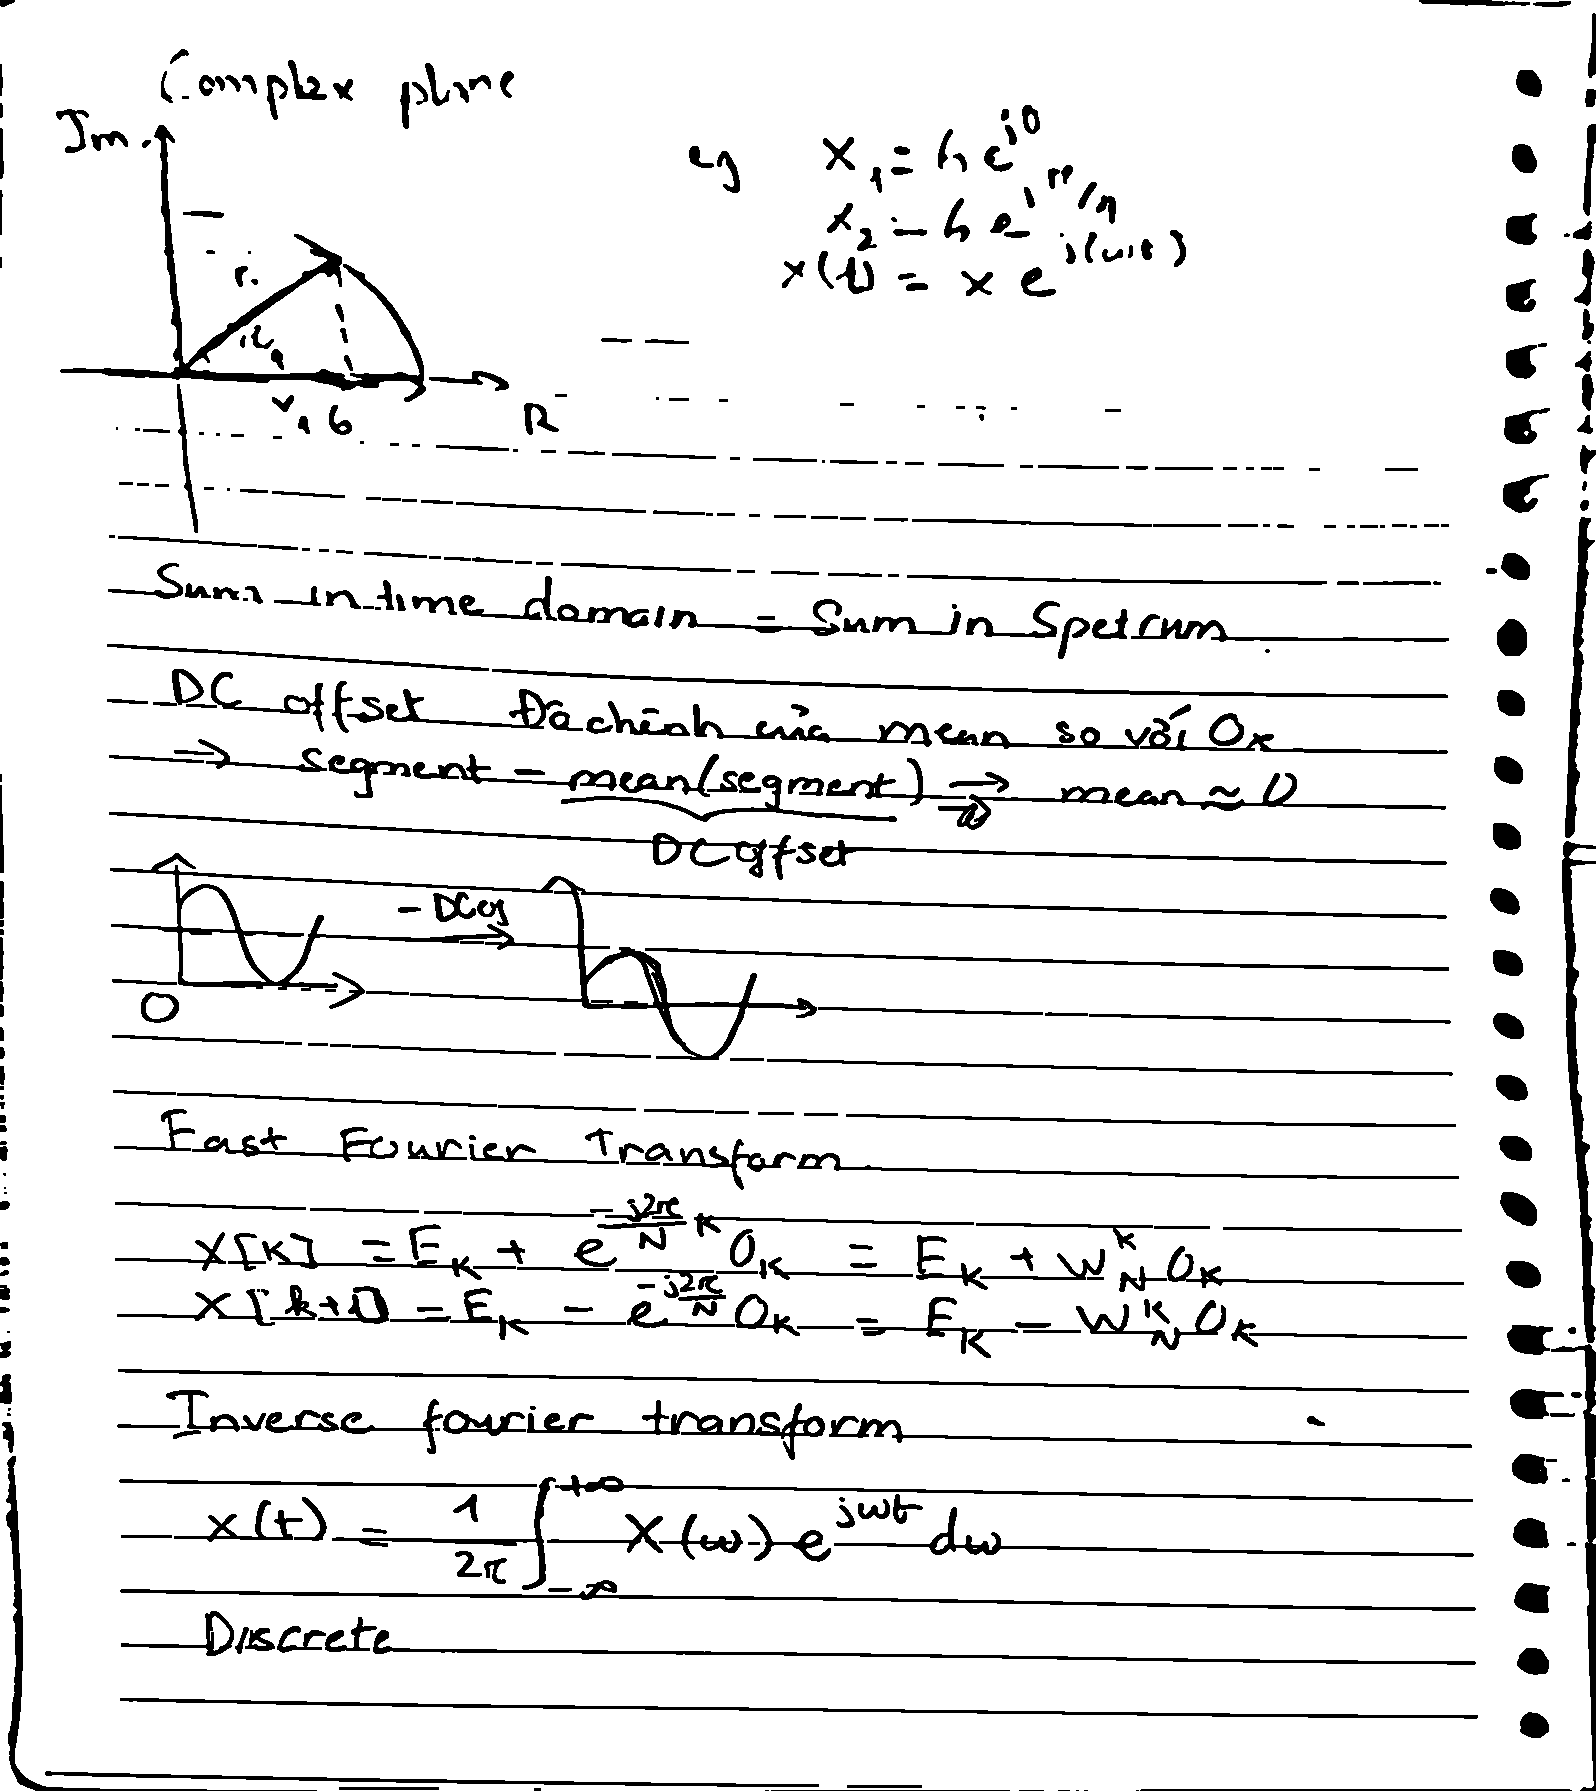
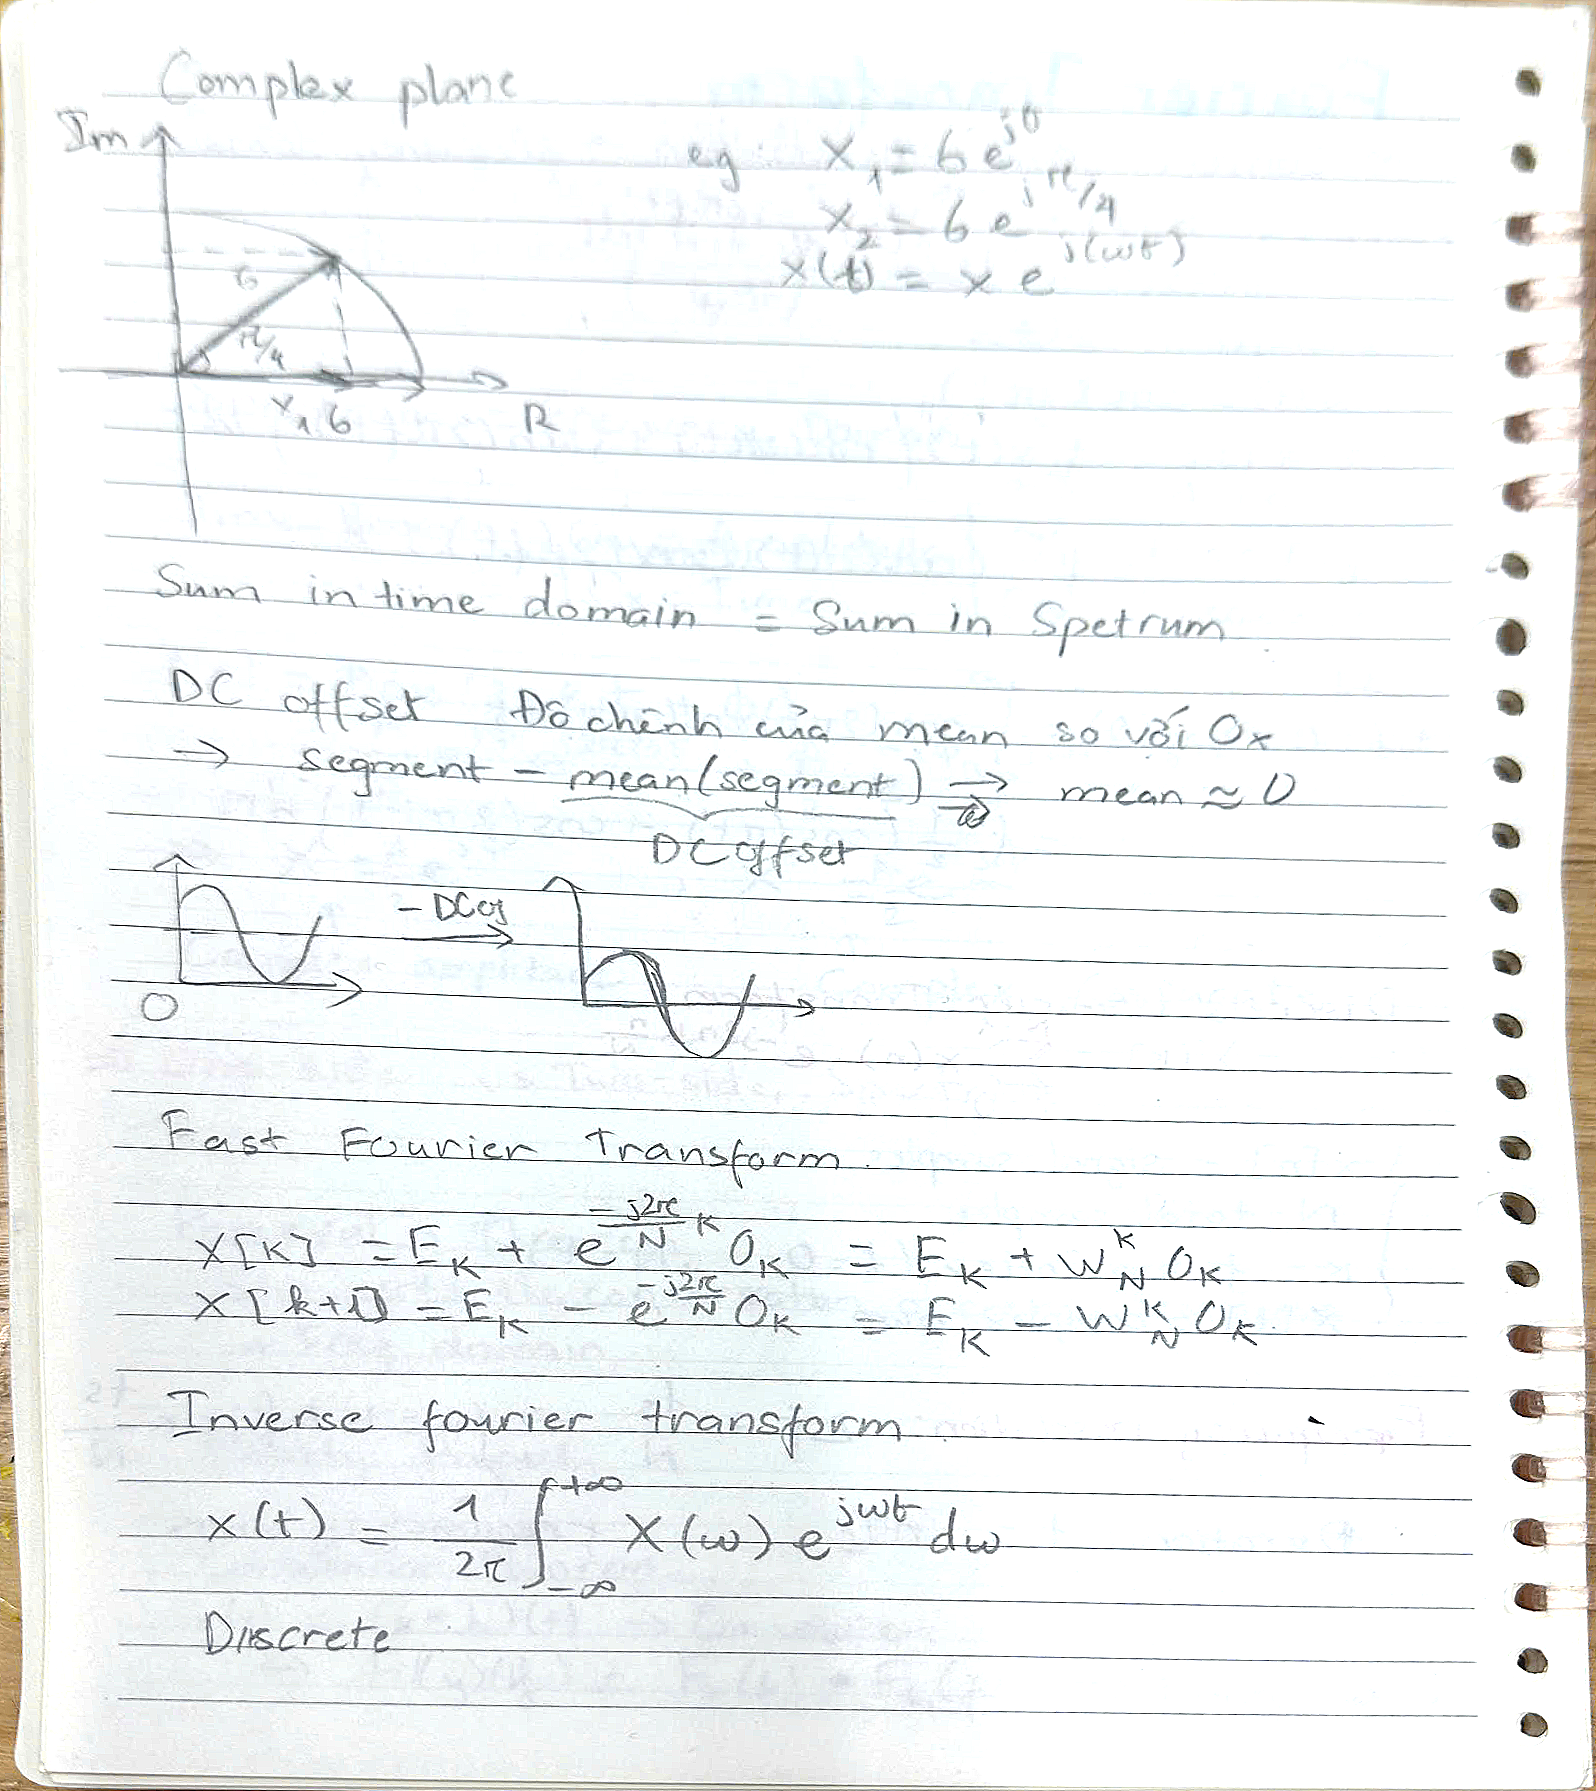
done

diff --git a/process_cv.py b/process_cv.py
@@ -4,14 +4,14 @@ import time
 
 class ImageProcessor:
     def __init__(self):
-        # Biến dùng cho tính năng Auto-Scan (Theo dõi chuyển động)
+        # Variables used for the Auto-Scan feature (Motion tracking)
         self.prev_corners = None
         self.stable_counter = 0
-        self.STABLE_THRESHOLD = 20  # Sai số pixel cho phép khi tay rung nhẹ
-        self.FRAMES_TO_LOCK = 3     # Số frame đứng im liên tiếp để chốt chụp
+        self.STABLE_THRESHOLD = 20  # Allowed pixel tolerance for slight hand shaking
+        self.FRAMES_TO_LOCK = 3     # Number of consecutive stable frames to lock the capture
 
     def order_points(self, pts):
-        """ Sắp xếp 4 điểm theo thứ tự: Trái-Trên, Phải-Trên, Phải-Dưới, Trái-Dưới """
+        """ Order 4 points in the sequence: Top-Left, Top-Right, Bottom-Right, Bottom-Left """
         rect = np.zeros((4, 2), dtype="float32")
         s = pts.sum(axis=1)
         rect[0] = pts[np.argmin(s)]
@@ -27,31 +27,31 @@ class ImageProcessor:
         results = {
             "status": "success", 
             "message": "Processed successfully",
-            "is_stable": False  # Cờ báo cho giao diện web tự động chụp
+            "is_stable": False  # Flag to signal the web interface to auto-capture
         }
         orig = frame.copy()
         
         # =========================================================
-        # GIAI ĐOẠN 1: TẨY CHỮ (MAGIC ERASER) & TÌM VIỀN THÔNG MINH
+        # STAGE 1: TEXT REMOVAL (MAGIC ERASER) & SMART EDGE DETECTION
         # =========================================================
         gray = cv2.cvtColor(frame, cv2.COLOR_BGR2GRAY)
         
-        # 1. Morphological Close (Kernel lớn): "Nuốt chửng" toàn bộ chữ viết đen 
-        # và dòng kẻ ngang, biến tờ giấy thành một khối trắng tinh mờ ảo.
+        # 1. Morphological Close (Large Kernel): "Swallows" all black text 
+        # and horizontal lines, turning the paper into a blurry white block.
         kernel_eraser = cv2.getStructuringElement(cv2.MORPH_RECT, (15, 15))
         blank_paper = cv2.morphologyEx(gray, cv2.MORPH_CLOSE, kernel_eraser)
 
-        # 2. Làm mờ nhẹ để xóa nhiễu vân gỗ mặt bàn
+        # 2. Slight blur to remove wood grain noise from the table
         blurred = cv2.GaussianBlur(blank_paper, (5, 5), 0)
 
-       # 3. THEO ĐÚNG Ý TƯỞNG CỦA BẠN: ÉP THRESHOLD XUỐNG CỰC THẤP
-        # Bỏ Auto-Canny, fix cứng ngưỡng (20, 60) để Canny nhạy cảm hơn, 
-        # bắt được cả những ranh giới lờ mờ nhất giữa giấy trắng và bàn gỗ.
+        # 3. AS PER YOUR IDEA: FORCE THRESHOLD EXTREMELY LOW
+        # Discard Auto-Canny, hardcode threshold to (20, 60) to make Canny more sensitive, 
+        # capturing even the faintest boundaries between white paper and wooden table.
         edged = cv2.Canny(blurred, 20, 60)
 
-        # 4. "Đổ bê tông" hàn gắn các khoảng trống khổng lồ
-        # Ảnh của bạn nét đứt rất xa, nên ta kết hợp cả MORPH_CLOSE và DILATE 
-        # với kernel to (11x11) để ép các đường thẳng đứt quãng nối lại với nhau.
+        # 4. "Pour concrete" to bridge giant gaps
+        # Your image has widely disconnected lines, so we combine MORPH_CLOSE and DILATE 
+        # with a large kernel (11x11) to force broken lines to connect together.
         kernel_bridge = cv2.getStructuringElement(cv2.MORPH_RECT, (11, 11))
         edged = cv2.morphologyEx(edged, cv2.MORPH_CLOSE, kernel_bridge)
         edged = cv2.dilate(edged, kernel_bridge, iterations=1)
@@ -61,7 +61,7 @@ class ImageProcessor:
             return cv2.cvtColor(edged, cv2.COLOR_GRAY2BGR), results, process_time_ms
 
         # =========================================================
-        # GIAI ĐOẠN 2: TÌM CONTOURS & VƯỢT QUA GÁY LÒ XO
+        # STAGE 2: FIND CONTOURS & OVERCOME SPIRAL BINDING
         # =========================================================
         contours, _ = cv2.findContours(edged.copy(), cv2.RETR_EXTERNAL, cv2.CHAIN_APPROX_SIMPLE)
         contours = sorted(contours, key=cv2.contourArea, reverse=True)[:5]
@@ -70,20 +70,20 @@ class ImageProcessor:
         doc_cnt = None
 
         for c in contours:
-            # Bỏ qua các contour rác có diện tích quá nhỏ
+            # Ignore noise contours with an area that is too small
             if cv2.contourArea(c) < 0.05 * image_area:
                 continue
 
-            # Bao lồi (Convex Hull): Bọc màng nilon phẳng qua gáy lò xo nhấp nhô
+            # Convex Hull: Wrap a flat "plastic wrap" over the bumpy spiral binding
             hull = cv2.convexHull(c)
             peri = cv2.arcLength(hull, True)
             
-            # Thử nghiệm các mức nới lỏng để ép hình dạng về 4 đỉnh
+            # Experiment with loosening levels to force the shape into 4 vertices
             for eps in [0.02, 0.03, 0.04, 0.05, 0.06]:
                 approx = cv2.approxPolyDP(hull, eps * peri, True)
                 
                 if len(approx) == 4:
-                    # Đảm bảo tứ giác là hình lồi (loại bỏ lỗi móp méo do bóng đèn)
+                    # Ensure the quadrilateral is convex (remove distortion errors caused by lighting)
                     if cv2.isContourConvex(approx):
                         doc_cnt = approx
                         break 
@@ -92,15 +92,15 @@ class ImageProcessor:
                 break
 
         # =========================================================
-        # LOGIC THEO DÕI CHUYỂN ĐỘNG (AUTO-CAPTURE)
+        # MOTION TRACKING LOGIC (AUTO-CAPTURE)
         # =========================================================
-        box_color = (0, 0, 255) # Mặc định viền màu Đỏ (Đang dịch chuyển)
+        box_color = (0, 0, 255) # Default to Red border (Moving)
 
         if doc_cnt is not None:
             current_corners = self.order_points(doc_cnt.reshape(4, 2))
             
             if self.prev_corners is not None:
-                # Tính khoảng cách Euclid giữa tọa độ góc cũ và mới
+                # Calculate Euclidean distance between old and new corner coordinates
                 dist = np.max(np.linalg.norm(current_corners - self.prev_corners, axis=1))
                 if dist < self.STABLE_THRESHOLD:
                     self.stable_counter += 1
@@ -111,7 +111,7 @@ class ImageProcessor:
                 
             self.prev_corners = current_corners
             
-            # Nếu cầm tay đủ vững trong 3 frames -> Đổi viền Xanh Lá và bật cờ
+            # If the hand is steady enough for 3 frames -> Change border to Green and set flag
             if self.stable_counter >= self.FRAMES_TO_LOCK:
                 results["is_stable"] = True
                 box_color = (0, 255, 0)
@@ -126,7 +126,7 @@ class ImageProcessor:
             return orig, results, process_time_ms
 
         if step == 'contours':
-            # Vẽ viền thực tế (vàng) và vẽ 4 góc chốt hạ (Đỏ/Xanh)
+            # Draw the actual contour (Yellow) and draw 4 corner points (Red/Green)
             cv2.drawContours(orig, [c], -1, (0, 255, 255), 2)  
             cv2.drawContours(orig, [doc_cnt], -1, box_color, 3) 
             for point in doc_cnt:
@@ -136,7 +136,7 @@ class ImageProcessor:
             return orig, results, process_time_ms
 
         # =========================================================
-        # GIAI ĐOẠN 3: ĐẠI SỐ TUYẾN TÍNH (HOMOGRAPHY)
+        # STAGE 3: LINEAR ALGEBRA (HOMOGRAPHY)
         # =========================================================
         pts = doc_cnt.reshape(4, 2)
         rect = self.order_points(pts)
@@ -165,31 +165,25 @@ class ImageProcessor:
             return warped, results, process_time_ms
 
         # =========================================================
-        # GIAI ĐOẠN 4: LỌC NHIỄU & LÀM SẠCH VĂN BẢN (POST-PROCESSING)
+        # STAGE 4: BRIGHTEN & INCREASE SHARPNESS (SHARPENING)
         # =========================================================
-        warped_gray = cv2.cvtColor(warped, cv2.COLOR_BGR2GRAY)
         
-        # Denoising: Triệt tiêu các bóng râm gắt trước khi binarize
-        denoised = cv2.fastNlMeansDenoising(warped_gray, None, h=10, templateWindowSize=7, searchWindowSize=21)
-        
-        # Adaptive Threshold: Tẩy trắng nền giấy, xóa dòng kẻ vở (blockSize = 51)
-        scanned = cv2.adaptiveThreshold(
-            denoised, 
-            255, 
-            cv2.ADAPTIVE_THRESH_GAUSSIAN_C, 
-            cv2.THRESH_BINARY, 
-            51,   
-            15    
-        )
-        
-        # Xóa các chấm đen nhiễu hạt nhỏ lấm tấm
-        scanned = cv2.medianBlur(scanned, 3)
+        # 1. Brighten and increase contrast (As you did)
+        alpha = 1.2  
+        beta = 25     
+        scanned_bgr = cv2.convertScaleAbs(warped, alpha=alpha, beta=beta)
 
-        # Bóp vùng màu trắng lại để chữ viết tay màu đen hiển thị đậm đà hơn
-        kernel_text = np.ones((2, 2), np.uint8)
-        scanned = cv2.erode(scanned, kernel_text, iterations=1)
+        # 2. Sharpening Filter (Sharpening Kernel)
+        # Create a 3x3 matrix to amplify color differences at the edge regions
+        sharpen_kernel = np.array([
+            [ 0, -1,  0],
+            [-1,  5, -1],
+            [ 0, -1,  0]
+        ])
+        
+        # Apply Convolution of the filter matrix to the image
+        scanned_bgr = cv2.filter2D(scanned_bgr, -1, sharpen_kernel)
 
         process_time_ms = (time.time() - start_time) * 1000
-        scanned_bgr = cv2.cvtColor(scanned, cv2.COLOR_GRAY2BGR)
         
         return scanned_bgr, results, process_time_ms
